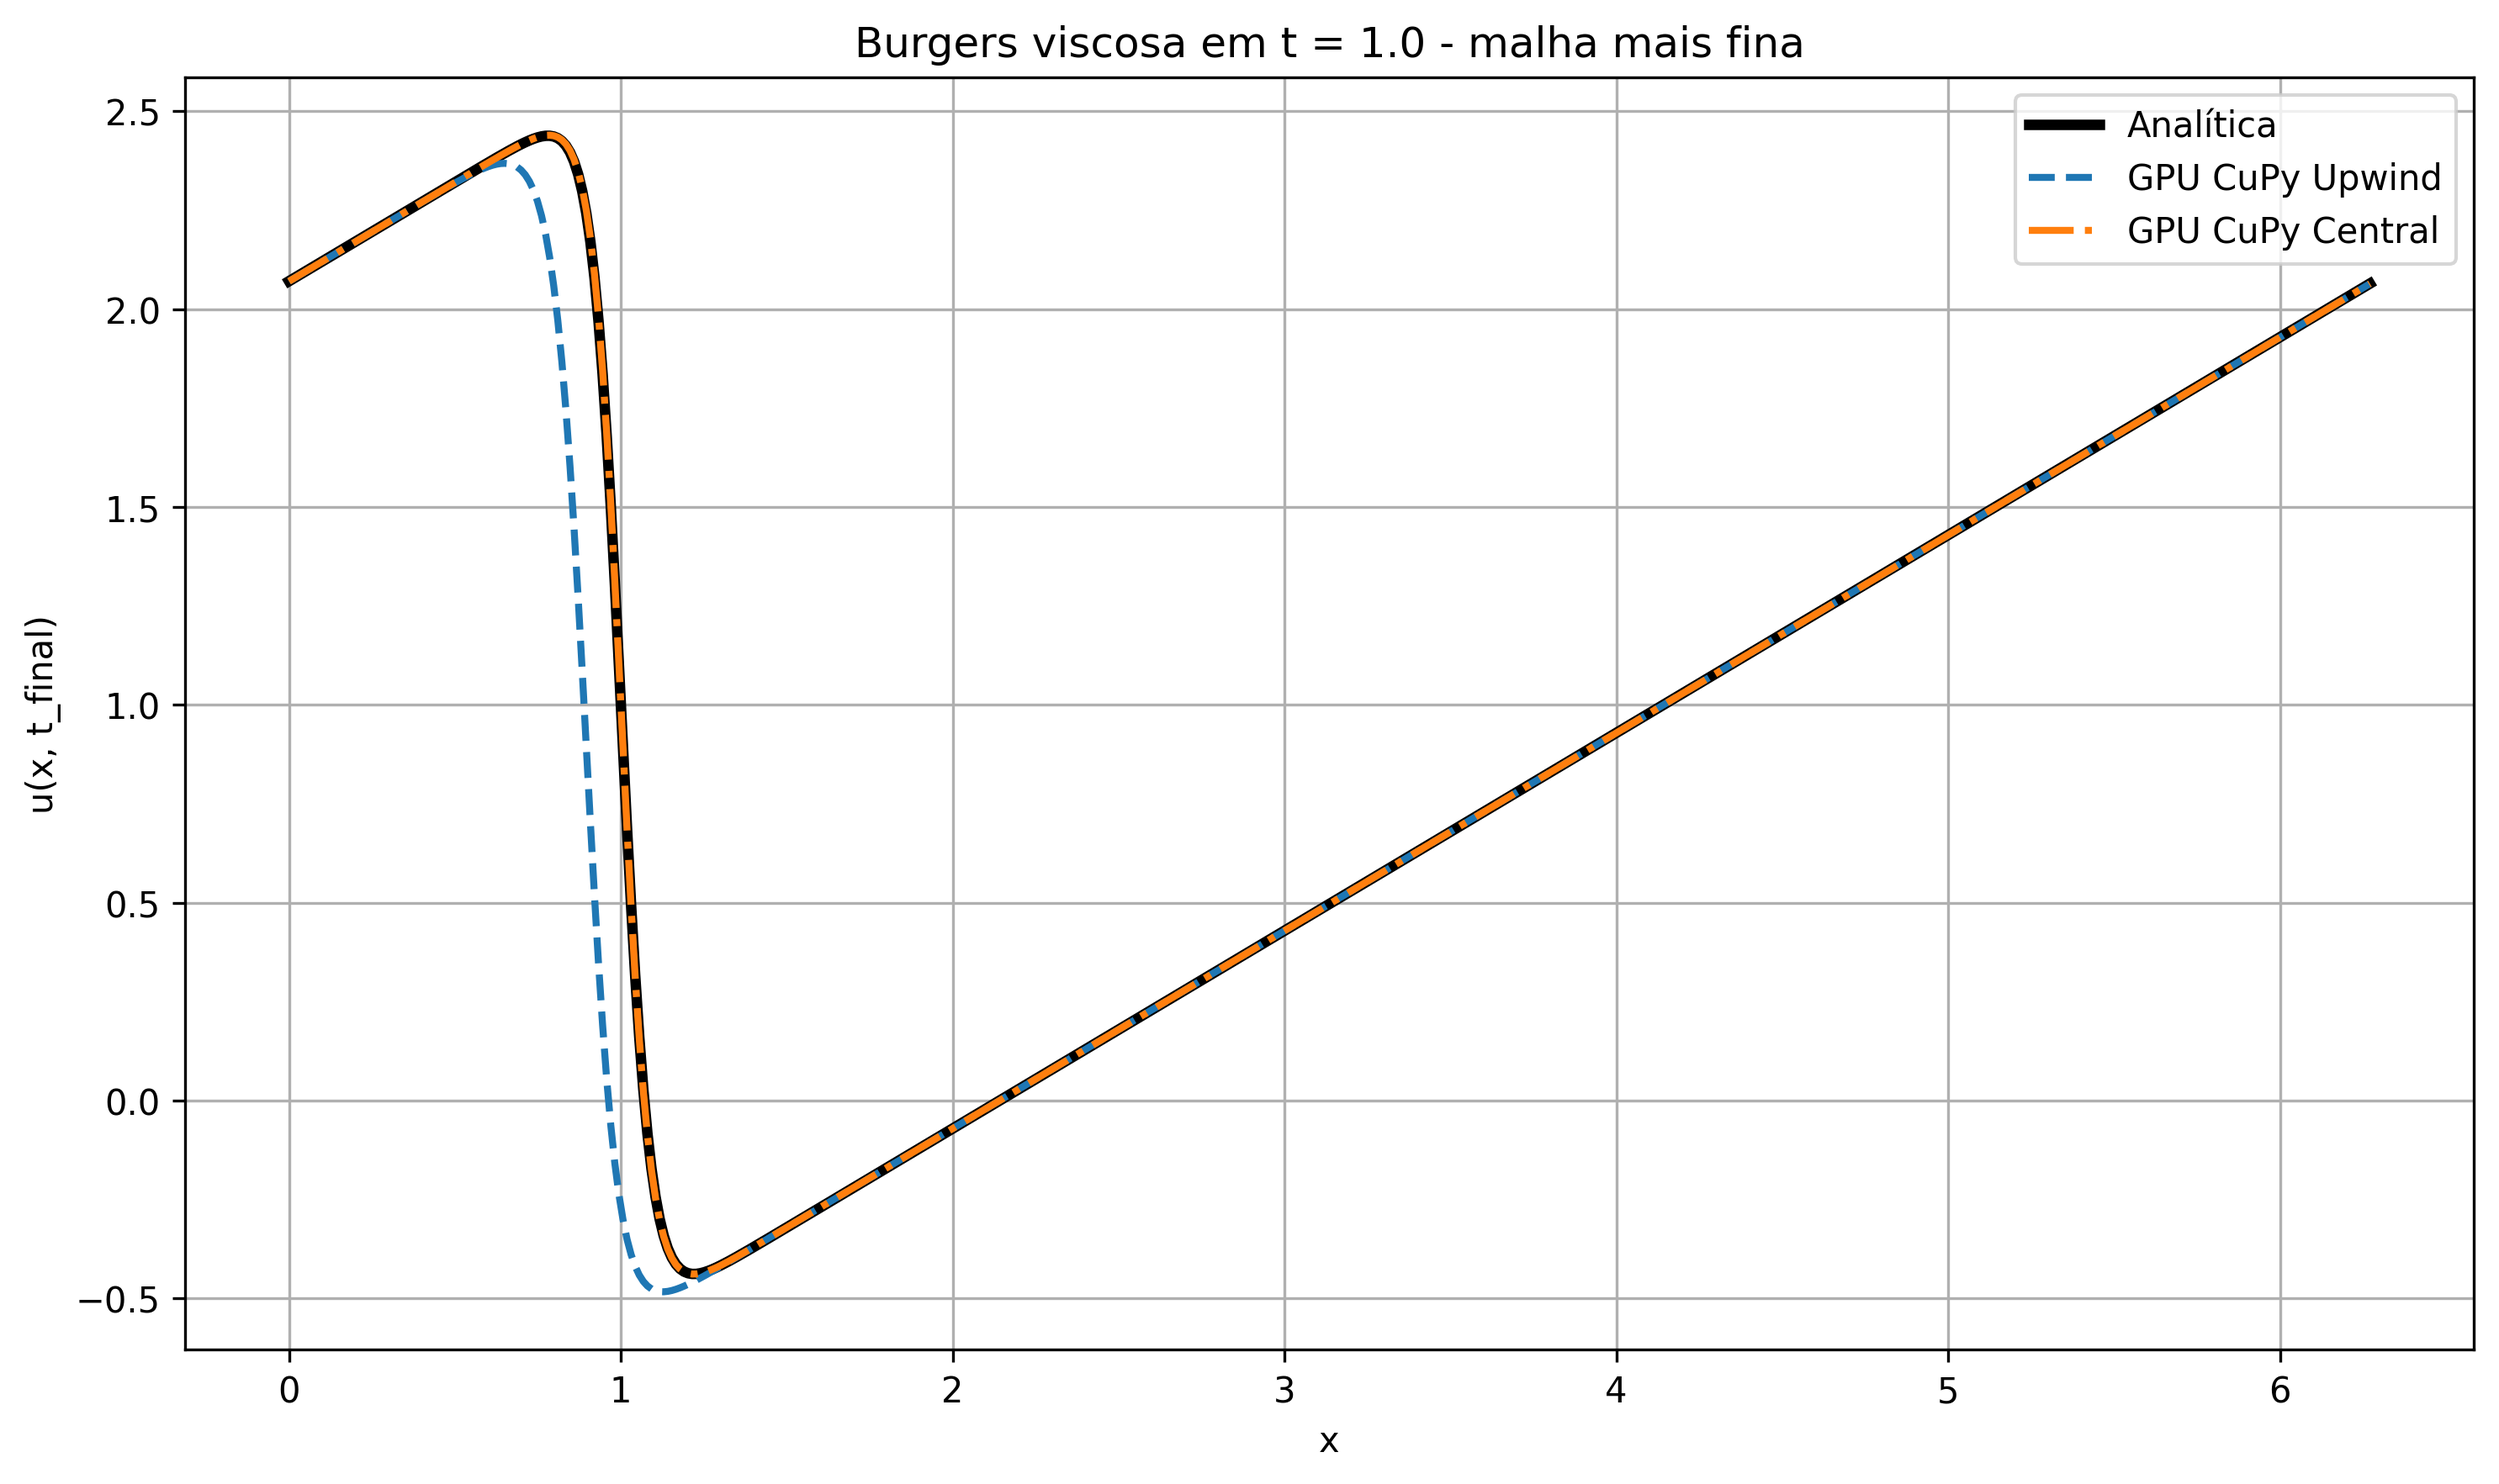
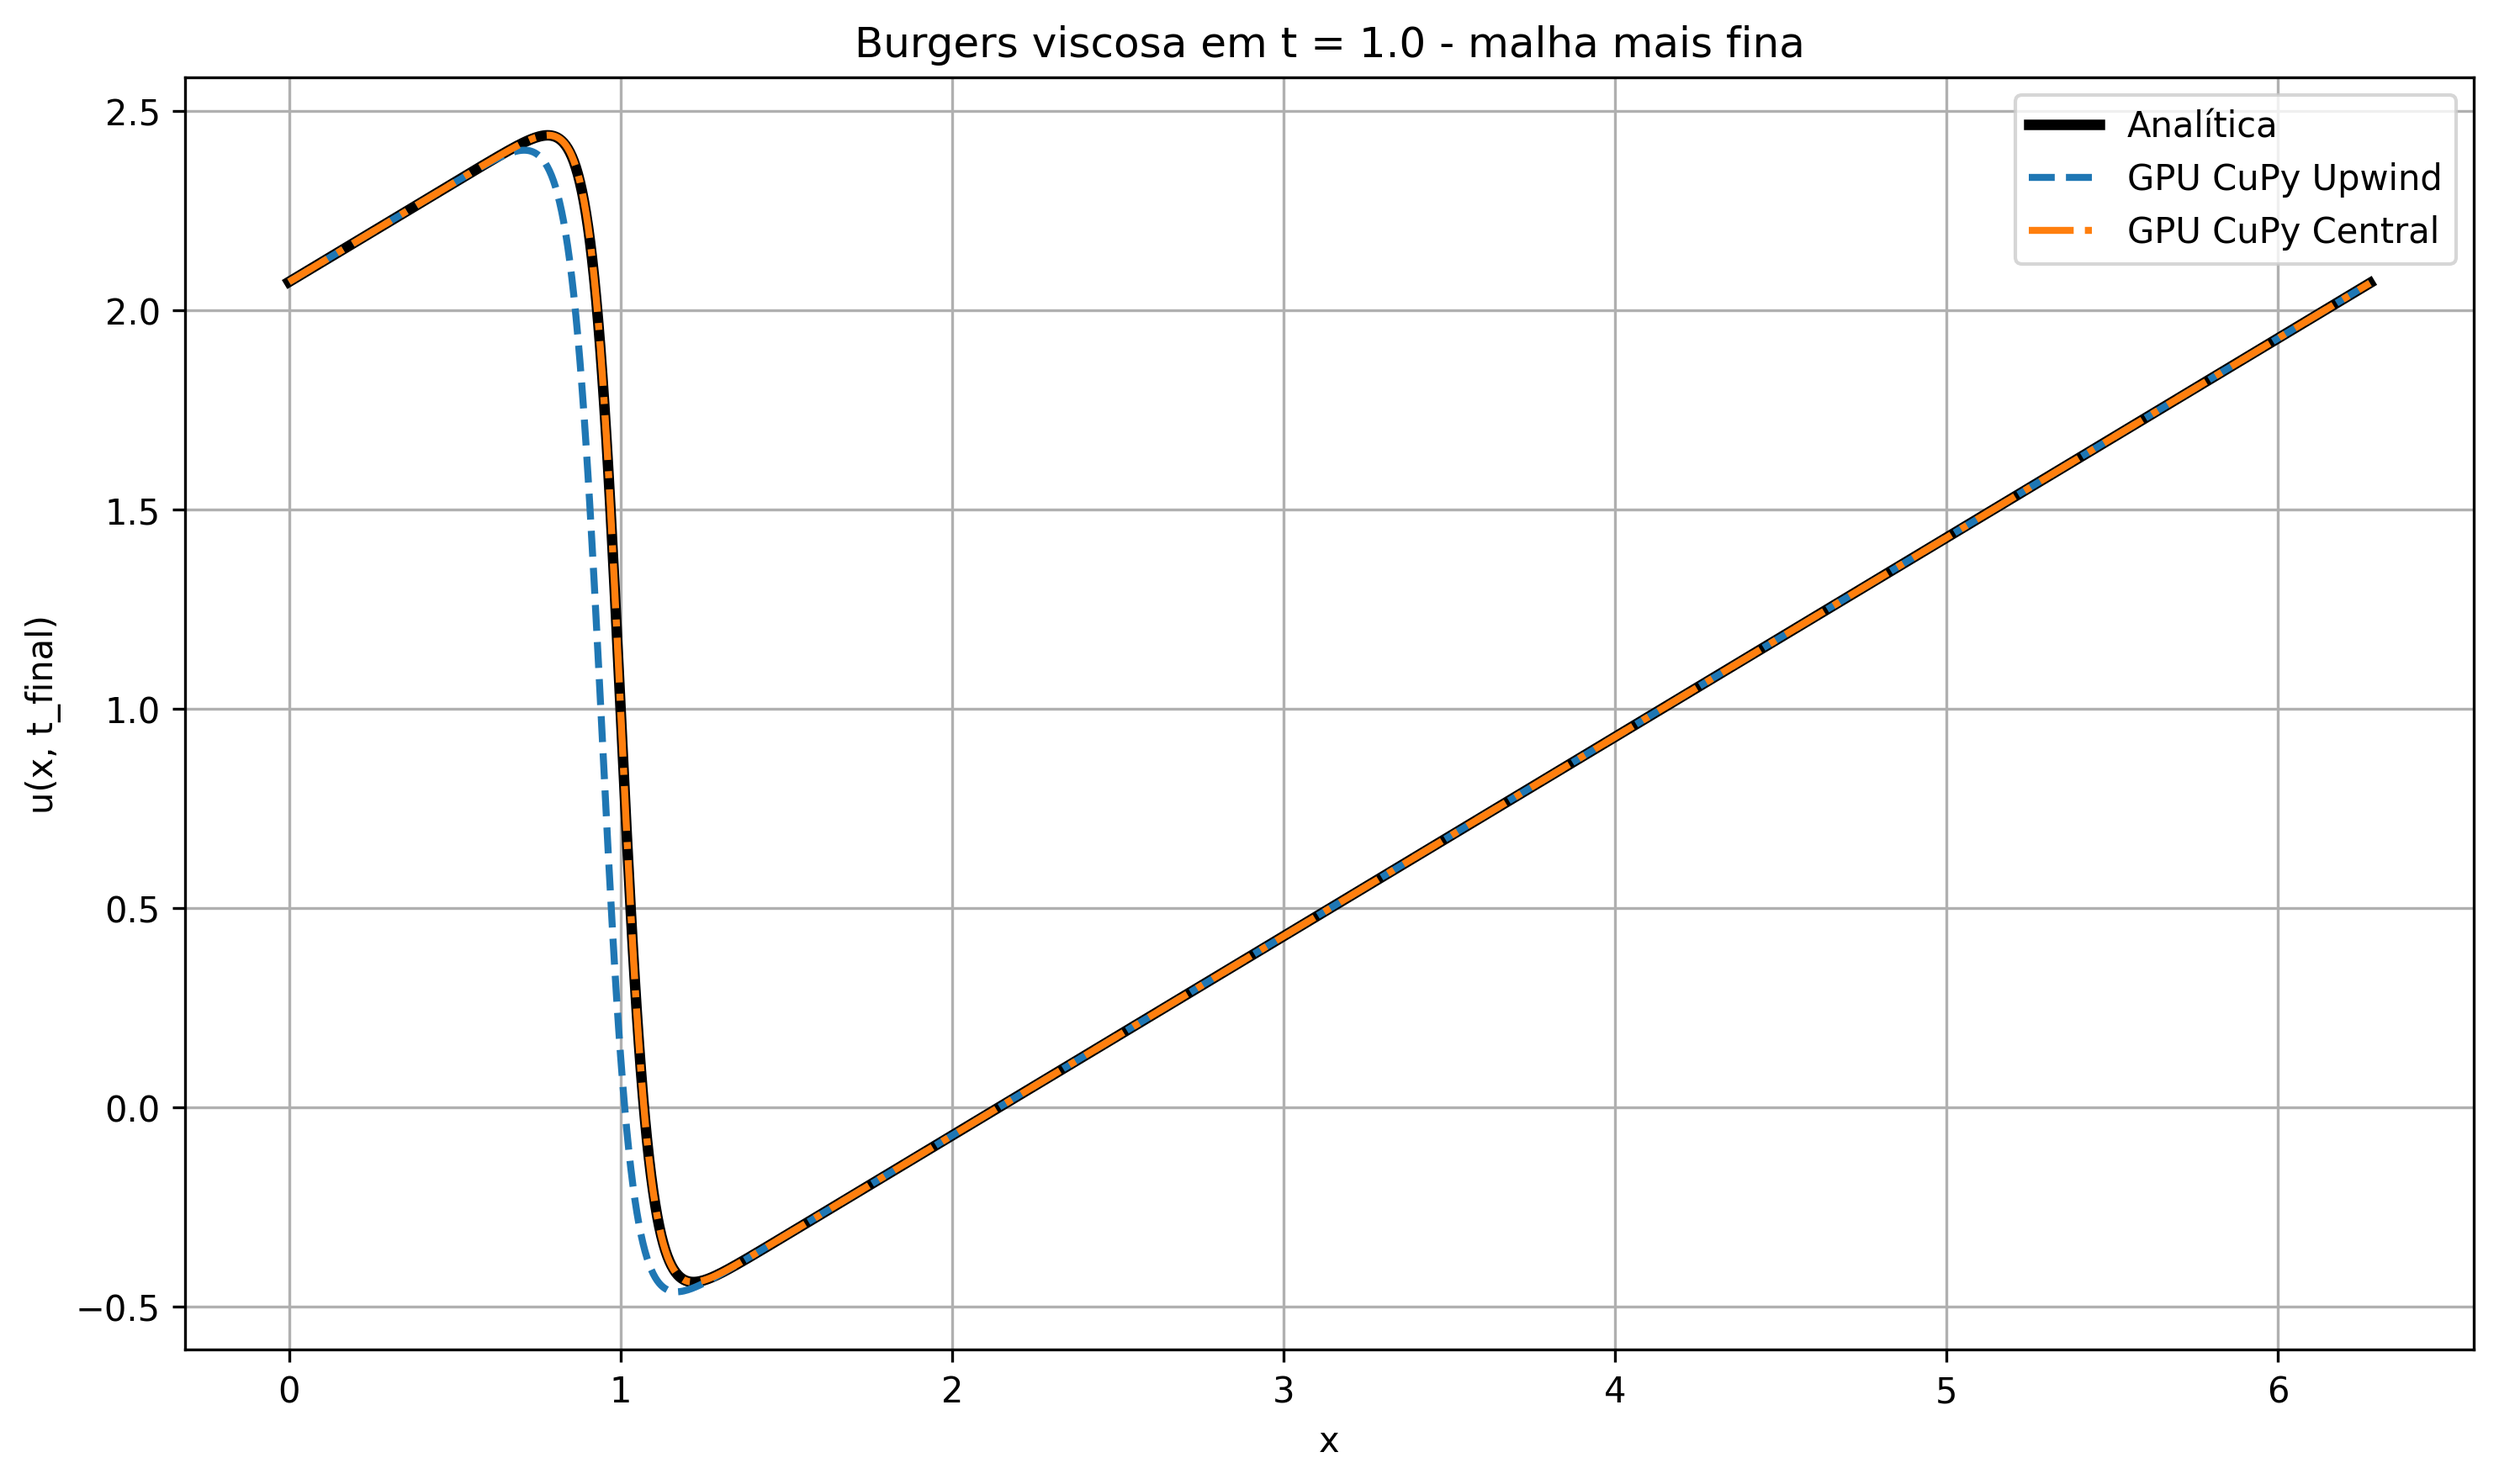
melhora no uso da gpu

diff --git a/burguers/main.py b/burguers/main.py
@@ -37,10 +37,10 @@ NU = 0.07
 T_FINAL = 1.0
 
 # Refinamentos para o estudo de convergência GPU
-REFINAMENTOS = [64, 128, 256, 512]
+REFINAMENTOS = [32, 64, 128, 256, 512, 1024]
 
 # Malha grosseira usada na comparação CPU x GPU
-NX_CPU_COMPARACAO = 64
+NX_CPU_COMPARACAO = 4096
 
 # Truncamento da série da solução analítica
 N_TERMS = 80
@@ -163,34 +163,59 @@ def passo_cpu_central(u_old, dx, dt, nu=NU):
 # ============================================================
 # 5) PASSOS NUMÉRICOS EM GPU (CuPy)
 # ============================================================
-def passo_gpu_upwind(u_old, dx, dt, nu=NU):
-    """
-    Passo explícito em GPU com upwind no termo convectivo.
-    Usa cp.roll para impor contorno periódico.
-    """
-    u_im1 = cp.roll(u_old, 1)
-    u_ip1 = cp.roll(u_old, -1)
+# Os kernels abaixo fundem o stencil completo em um único launch,
+# evitando vários kernels pequenos gerados por cp.roll/cp.where
+# a cada passo de tempo.
+KERNEL_UPWIND = cp.ElementwiseKernel(
+    "raw float64 u_old, float64 dx, float64 dt, float64 nu, int32 n",
+    "float64 u_new",
+    r"""
+    const int im1 = (i == 0) ? (n - 1) : (i - 1);
+    const int ip1 = (i == n - 1) ? 0 : (i + 1);
 
-    dudx = cp.where(
-        u_old >= 0.0,
-        (u_old - u_im1) / dx,
-        (u_ip1 - u_old) / dx,
-    )
+    const double ui = u_old[i];
+    const double uim1 = u_old[im1];
+    const double uip1 = u_old[ip1];
 
-    d2udx2 = (u_ip1 - 2.0 * u_old + u_im1) / (dx * dx)
-    return u_old - dt * u_old * dudx + dt * nu * d2udx2
+    double dudx;
+    if (ui >= 0.0) {
+        dudx = (ui - uim1) / dx;
+    } else {
+        dudx = (uip1 - ui) / dx;
+    }
+
+    const double d2udx2 = (uip1 - 2.0 * ui + uim1) / (dx * dx);
+    u_new = ui - dt * ui * dudx + dt * nu * d2udx2;
+    """,
+    "burgers_upwind_kernel",
+)
 
 
-def passo_gpu_central(u_old, dx, dt, nu=NU):
-    """
-    Passo explícito em GPU com diferença central no termo convectivo.
-    """
-    u_im1 = cp.roll(u_old, 1)
-    u_ip1 = cp.roll(u_old, -1)
+KERNEL_CENTRAL = cp.ElementwiseKernel(
+    "raw float64 u_old, float64 dx, float64 dt, float64 nu, int32 n",
+    "float64 u_new",
+    r"""
+    const int im1 = (i == 0) ? (n - 1) : (i - 1);
+    const int ip1 = (i == n - 1) ? 0 : (i + 1);
 
-    dudx = (u_ip1 - u_im1) / (2.0 * dx)
-    d2udx2 = (u_ip1 - 2.0 * u_old + u_im1) / (dx * dx)
-    return u_old - dt * u_old * dudx + dt * nu * d2udx2
+    const double ui = u_old[i];
+    const double uim1 = u_old[im1];
+    const double uip1 = u_old[ip1];
+
+    const double dudx = (uip1 - uim1) / (2.0 * dx);
+    const double d2udx2 = (uip1 - 2.0 * ui + uim1) / (dx * dx);
+    u_new = ui - dt * ui * dudx + dt * nu * d2udx2;
+    """,
+    "burgers_central_kernel",
+)
+
+
+def passo_gpu_upwind(u_old, u_new, dx, dt, nu=NU):
+    KERNEL_UPWIND(u_old, dx, dt, nu, np.int32(u_old.size), u_new)
+
+
+def passo_gpu_central(u_old, u_new, dx, dt, nu=NU):
+    KERNEL_CENTRAL(u_old, dx, dt, nu, np.int32(u_old.size), u_new)
 
 
 # ============================================================
@@ -204,6 +229,7 @@ def simular_gpu(Nx, esquema, salvar_snapshots=False):
 
     # solução inicial enviada para a GPU
     u0_gpu = cp.asarray(u0)
+    u1_gpu = cp.empty_like(u0_gpu)
 
     # snapshots em tempos específicos
     snapshots = {}
@@ -213,20 +239,23 @@ def simular_gpu(Nx, esquema, salvar_snapshots=False):
 
     # warm-up para carregar contexto CUDA e evitar medir inicialização
     if esquema == "upwind":
-        _ = passo_gpu_upwind(u0_gpu, dx, dt, NU)
+        passo_gpu_upwind(u0_gpu, u1_gpu, dx, dt, NU)
     else:
-        _ = passo_gpu_central(u0_gpu, dx, dt, NU)
+        passo_gpu_central(u0_gpu, u1_gpu, dx, dt, NU)
     cp.cuda.Stream.null.synchronize()
 
     # reinicializa para a simulação medida
     u_gpu = cp.asarray(u0)
+    u_gpu_new = cp.empty_like(u_gpu)
 
     t0 = time.perf_counter()
     for n in range(nt):
         if esquema == "upwind":
-            u_gpu = passo_gpu_upwind(u_gpu, dx, dt, NU)
+            passo_gpu_upwind(u_gpu, u_gpu_new, dx, dt, NU)
         else:
-            u_gpu = passo_gpu_central(u_gpu, dx, dt, NU)
+            passo_gpu_central(u_gpu, u_gpu_new, dx, dt, NU)
+
+        u_gpu, u_gpu_new = u_gpu_new, u_gpu
 
         if salvar_snapshots:
             t_atual = (n + 1) * dt
